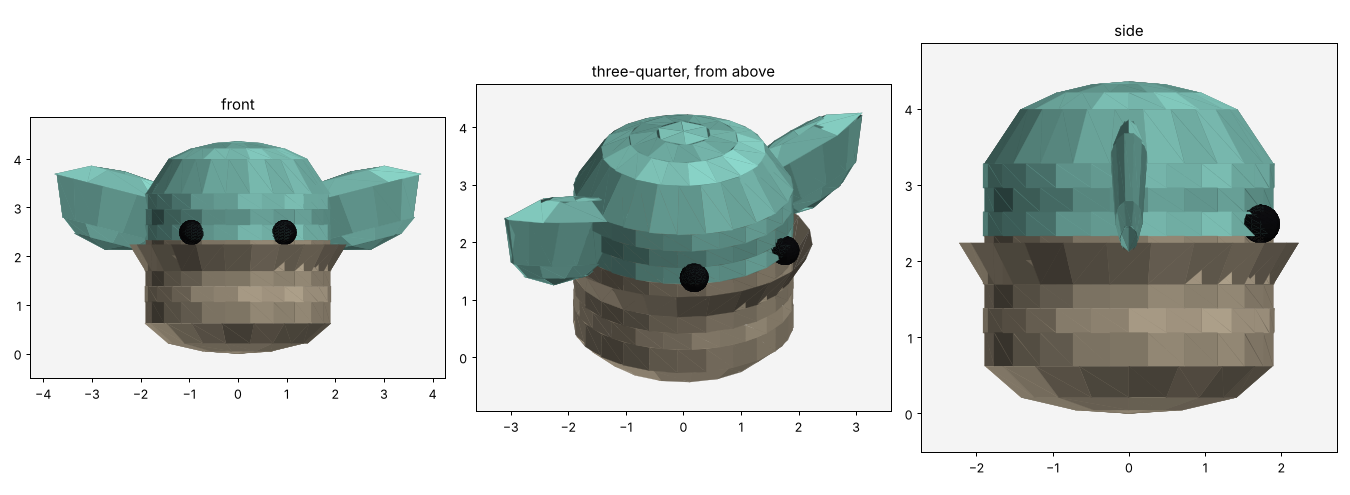
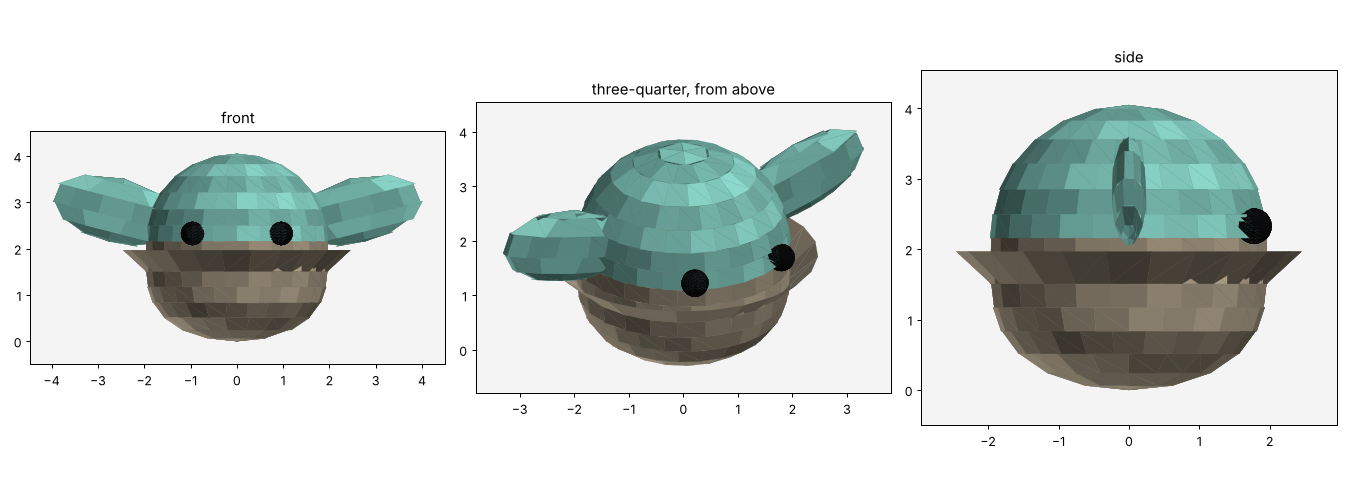
Stuffed pieces round out like a stiff balloon
Smooth the stuffed outline (no corners or flat walls), keep the poles on
the axis so the ends round over flat instead of pointing, and inflate back
to the widest round; sewn-on pieces get a lighter pass. Collar flares out
past the bulge. Checked by rendering Baby Grogu and the penguin test.

Claude-Session: https://claude.ai/code/session_01CiKekUmF9miFuH4W87vaLH

diff --git a/PrecisionTube/Shapes/ShapeMath.swift b/PrecisionTube/Shapes/ShapeMath.swift
@@ -537,17 +537,52 @@ struct StitchModel: Equatable {
         }
 
         // Stuffing also squashes a piece a little: wider than its rounds alone would say, less tall.
+        var radii = radius
         if puff > 0 {
             let squash = 1 - 0.4 * min(1, puff)
             for i in 0..<n { z[i] *= squash }
             capZ *= squash
+
+            // Stuffed yarn is a stiff balloon: no corners or flat walls. Smooth the outline (the
+            // poles stay put) and let it bulge back out to its widest round.
+            var pts = [SIMD2<Double>(0, 0)] + (0..<n).map { SIMD2(radius[$0], z[$0]) }
+            if closed { pts.append(SIMD2(0, capZ)) }
+            let widest = radius.max() ?? 0
+            let passes = puff >= 0.5 ? 6 : 3
+            for _ in 0..<passes where pts.count > 2 {
+                var next = pts
+                for j in 1..<(pts.count - 1) {
+                    next[j] = pts[j] * 0.5 + (pts[j - 1] + pts[j + 1]) * 0.25
+                }
+                // The poles stay on the axis and only move up or down, toward their neighbour, so
+                // the ends round over flat instead of coming to a point.
+                next[0] = SIMD2(0, pts[0].y * 0.5 + pts[1].y * 0.5)
+                let last = pts.count - 1
+                if closed {
+                    next[last] = SIMD2(0, pts[last].y * 0.5 + pts[last - 1].y * 0.5)
+                } else {
+                    // An open end (a piece still being made) keeps its last edge where it is.
+                    next[last] = pts[last]
+                }
+                pts = next
+            }
+            // Keep the start at the floor.
+            let floor = pts[0].y
+            pts = pts.map { SIMD2($0.x, $0.y - floor) }
+            let smoothedWidest = pts.map(\.x).max() ?? 0
+            let inflate = smoothedWidest > 0 ? widest / smoothedWidest * (1 + 0.06 * min(1, puff)) : 1
+            for i in 0..<n {
+                radii[i] = pts[i + 1].x * inflate
+                z[i] = pts[i + 1].y
+            }
+            if closed { capZ = pts[pts.count - 1].y }
         }
 
         var bands: [Band] = []
         var bandColors: [Int] = []
         var p = SIMD2<Double>(0, 0)
         for i in 0..<n {
-            let next = SIMD2(radius[i], z[i])
+            let next = SIMD2(radii[i], z[i])
             bands.append(Band(bottom: p, top: next, stitches: counts[i]))
             bandColors.append(i < colors.count ? colors[i] : 0)
             p = next
@@ -563,7 +598,7 @@ struct StitchModel: Equatable {
         // flaring a little, like a cup around the round before.
         for collar in collars where collar.round >= 1 && collar.round <= bands.count {
             let edge = bands[collar.round - 1].top
-            let tip = SIMD2(edge.x + gauge.h * 0.8, max(0, edge.y - gauge.h * 1.3))
+            let tip = SIMD2(edge.x + gauge.h * 1.2, max(0, edge.y - gauge.h * 1.1))
             model.bands.append(Band(bottom: edge, top: tip, stitches: collar.count ?? counts[collar.round - 1]))
             model.bandColors.append(bandColors[collar.round - 1])
         }
